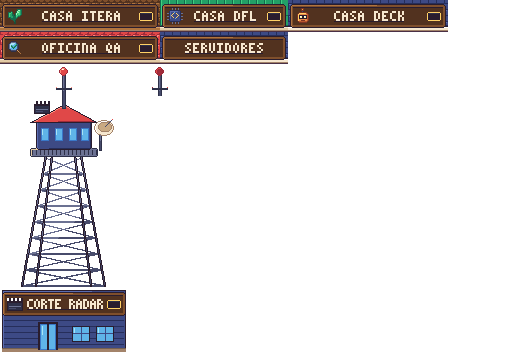
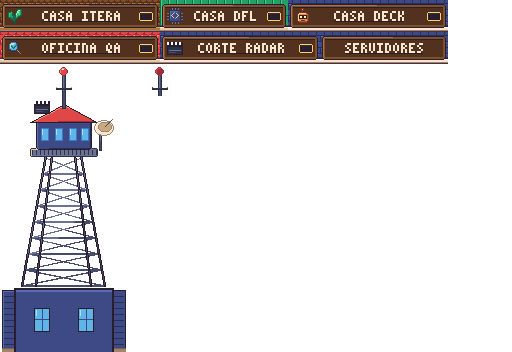
feat(world): Torre Corte Radar vira anexo ao lado da casa; casa ganha placa e corredor entre as mesas

Changed region(s): [[0.0, 0.8125, 0.25, 1.0], [0.3125, 0.0938, 0.875, 0.1875]]

diff --git a/public/world/v2/tiles-extra.tsx b/public/world/v2/tiles-extra.tsx
@@ -96,22 +96,47 @@
    <property name="layer" value="above"/>
   </properties>
  </tile>
- <tile id="21" type="sign_servidores">
+ <tile id="21" type="sign_corte-radar">
   <properties>
    <property name="layer" value="above"/>
   </properties>
  </tile>
- <tile id="22" type="sign_servidores">
+ <tile id="22" type="sign_corte-radar">
   <properties>
    <property name="layer" value="above"/>
   </properties>
  </tile>
- <tile id="23" type="sign_servidores">
+ <tile id="23" type="sign_corte-radar">
   <properties>
    <property name="layer" value="above"/>
   </properties>
  </tile>
- <tile id="24" type="sign_servidores">
+ <tile id="24" type="sign_corte-radar">
+  <properties>
+   <property name="layer" value="above"/>
+  </properties>
+ </tile>
+ <tile id="25" type="sign_corte-radar">
+  <properties>
+   <property name="layer" value="above"/>
+  </properties>
+ </tile>
+ <tile id="26" type="sign_servidores">
+  <properties>
+   <property name="layer" value="above"/>
+  </properties>
+ </tile>
+ <tile id="27" type="sign_servidores">
+  <properties>
+   <property name="layer" value="above"/>
+  </properties>
+ </tile>
+ <tile id="28" type="sign_servidores">
+  <properties>
+   <property name="layer" value="above"/>
+  </properties>
+ </tile>
+ <tile id="29" type="sign_servidores">
   <properties>
    <property name="layer" value="above"/>
   </properties>
@@ -283,7 +308,7 @@
  </tile>
  <tile id="161" type="radar_tower">
   <properties>
-   <property name="door" type="bool" value="true"/>
+   <property name="block" type="bool" value="true"/>
   </properties>
  </tile>
  <tile id="162" type="radar_tower">

diff --git a/scripts/world-v2/gen-map.py b/scripts/world-v2/gen-map.py
@@ -415,19 +415,24 @@ def facade(w, b, by, F, door_x):
         b["sign_px"] = (sx * T + it["text"][0], sy * T + it["text"][1], it["text"][2], it["text"][3])
         if "pr_slot" in it:
             b["slot_px"] = (sx * T + it["pr_slot"][0], sy * T + it["pr_slot"][1], it["pr_slot"][2], it["pr_slot"][3])
-    lm = b.get("landmark")
+    annex = b.get("annex")
+    lm = b.get("landmark") or annex
     if lm:
         lts = b.get("lm_ts", "ext")
         it = SETS[lts][1][lm]
         lw, lh = it["w"], it["h"]
         lx = b["lm_x"]
         ly = wy + 2 - lh
-        if "text" in it:
+        if annex:
+            for j in range(lh):
+                for i in range(lw):
+                    w.reserved.add((lx + i, ly + j))
+        elif "text" in it:
             b["sign_px"] = (lx * T + it["text"][0], ly * T + it["text"][1], it["text"][2], it["text"][3])
         else:
             b["sign_px"] = (lx * T, ly * T, lw * T, (lh - 2) * T)
             b["sign_builtin"] = True
-        if "pr_slot" in it:
+        if "pr_slot" in it and not annex:
             b["slot_px"] = (lx * T + it["pr_slot"][0], ly * T + it["pr_slot"][1], it["pr_slot"][2], it["pr_slot"][3])
         for j in range(lh):
             for i in range(lw):
@@ -771,14 +776,14 @@ def zone_growth(w, homes):
     item(w, "plant_ficus", 88, 19)
     house_obj(w, rad, homes)
 
-    tor = building(w, {"id": "corte-radar", "label": "Torre Corte Radar", "x": 62, "y": 33, "w": 8, "h": 13,
+    tor = building(w, {"id": "corte-radar", "label": "Torre Corte Radar", "x": 62, "y": 33, "w": 7, "h": 13,
                        "door": "bottom", "door_x": 65, "band": "south", "wall": "blue", "roof": "slate",
-                       "roof_rows": 1, "bays": ["window_square"], "landmark": "radar_tower", "lm_ts": "xt",
-                       "lm_x": 64, "iwall": "sky", "floor": "floor_checker_warm", "department": "growth",
+                       "roof_rows": 1, "bays": ["window_square"], "annex": "radar_tower", "lm_ts": "xt",
+                       "lm_x": 69, "iwall": "sky", "floor": "floor_checker_warm", "department": "growth",
                        "tint": "#ffa970d8", "icon": "xt:radar_tower"})
     wall_decor(w, tor, 2, "screen")
-    seat_desks(w, tor, homes, [(63, 37), (67, 37), (63, 40), (67, 40)])
-    item(w, "plant_ficus", 68, 41)
+    seat_desks(w, tor, homes, [(63, 37), (66, 37), (63, 40), (66, 40)])
+    item(w, "plant_ficus", 67, 42)
     house_obj(w, tor, homes)
 
     # Feira / jardim
@@ -917,7 +922,7 @@ def neighbourhood_trees(w, full):
              (8, 13, "round"), (40, 42, "round"), (43, 40, "autumn"), (2, 38, "pine"), (2, 33, "round"),
              (90, 22, "round"), (79, 21, "pine"), (66, 12, "round"), (79, 13, "autumn"), (88, 13, "round"),
              (39, 51, "round"), (21, 52, "autumn"), (2, 52, "round"), (2, 56, "pine"), (43, 52, "pine"),
-             (74, 51, "autumn"), (90, 31, "pine"), (60, 44, "round"), (71, 44, "autumn")]
+             (74, 51, "autumn"), (90, 31, "pine"), (60, 44, "round"), (74, 44, "autumn")]
     for x, y, v in base + (extra if full else []):
         tree(w, x, y, v)
     for x, y in ((38, 23), (58, 24), (44, 18), (52, 20)):

diff --git a/scripts/world-v2/extra.py b/scripts/world-v2/extra.py
@@ -24,6 +24,7 @@ SIGNS = {
     "dfl": ("CASA DFL", "chip", "green", 4, True),
     "deck": ("CASA DECK", "robot", "slate", 5, True),
     "qa": ("OFICINA QA", "magnifier", "terra", 5, True),
+    "corte-radar": ("CORTE RADAR", "clap", "slate", 5, True),
     "servidores": ("SERVIDORES", None, "slate", 4, False),
 }
 PILL = (14, 9)
@@ -258,24 +259,19 @@ ICONS["clap"] = icon_clap
 
 
 def tower(frame):
+    """annex tower: standing beside the Corte Radar house, a plain navy plinth with two windows and no door"""
     im = radar_tower(frame)
-    b, info = tower_board()
-    im.alpha_composite(b, (0, 224))
-    # door (column 1) and windows
-    rect(im, 38, 258, 57, 285, "ol0")
-    rect(im, 40, 260, 55, 285, "a1")
-    rect(im, 41, 261, 46, 284, "a2")
-    rect(im, 49, 261, 54, 284, "a2")
-    vline(im, 47, 260, 285, "ol0")
-    vline(im, 48, 260, 285, "ol0")
-    vline(im, 42, 262, 270, "a3")
-    for x in (72, 96):
-        rect(im, x, 262, x + 17, 277, "ol0")
-        rect(im, x + 1, 263, x + 16, 276, "a2")
-        vline(im, x + 9, 263, 276, "p1")
-        hline(im, x + 1, x + 16, 269, "p1")
-        vline(im, x + 2, 264, 268, "a3")
-    return im, {k: [v[0], v[1] + 224, v[2], v[3]] for k, v in info.items()}
+    rect(im, 14, 224, 113, 287, "ol0")
+    rect(im, 16, 226, 111, 287, "p1")
+    hline(im, 16, 111, 226, "p2")
+    hline(im, 16, 111, 227, "p2")
+    for x in (34, 78):
+        rect(im, x, 244, x + 15, 267, "ol0")
+        rect(im, x + 1, 245, x + 14, 266, "a2")
+        vline(im, x + 8, 245, 266, "p1")
+        hline(im, x + 1, x + 14, 255, "p1")
+        vline(im, x + 2, 246, 251, "a3")
+    return im, {}
 
 
 # ---------------------------------------------------------------- atlas
@@ -294,12 +290,10 @@ def build():
 
     def tower_props(i, j):
         if j >= 7:
-            if j == 8 and i == 1:
-                return {"door": True}
             return {"block": True}
         return {"layer": "above"}
     A.add("radar_tower", frames, tile_props=tower_props, fps=2, sparse=True,
-          info={"house": "corte-radar", "label": "CORTE RADAR", "door_col": 1, **tinfo})
+          info={"house": "corte-radar", "label": "CORTE RADAR", **tinfo})
     return A
 
 

diff --git a/scripts/world-v2/render-map.py b/scripts/world-v2/render-map.py
@@ -17,7 +17,7 @@ V2 = os.path.join(os.path.dirname(os.path.dirname(HERE)), "public", "world", "v2
 ORDER = ["ground", "ground2", "walls", "furniture_low", "@objects", "furniture_high", "lights"]
 CROPS = {"praca": (36, 0, 26, 48), "casas": (0, 12, 42, 36), "sul": (0, 44, 96, 20)}
 # the four project houses and the Corte Radar tower, side by side
-FACADES = [(6, 15, 25, 28), (61, 31, 10, 16)]
+FACADES = [(6, 15, 25, 28), (61, 31, 14, 16)]
 
 
 def tiles_of(m):
